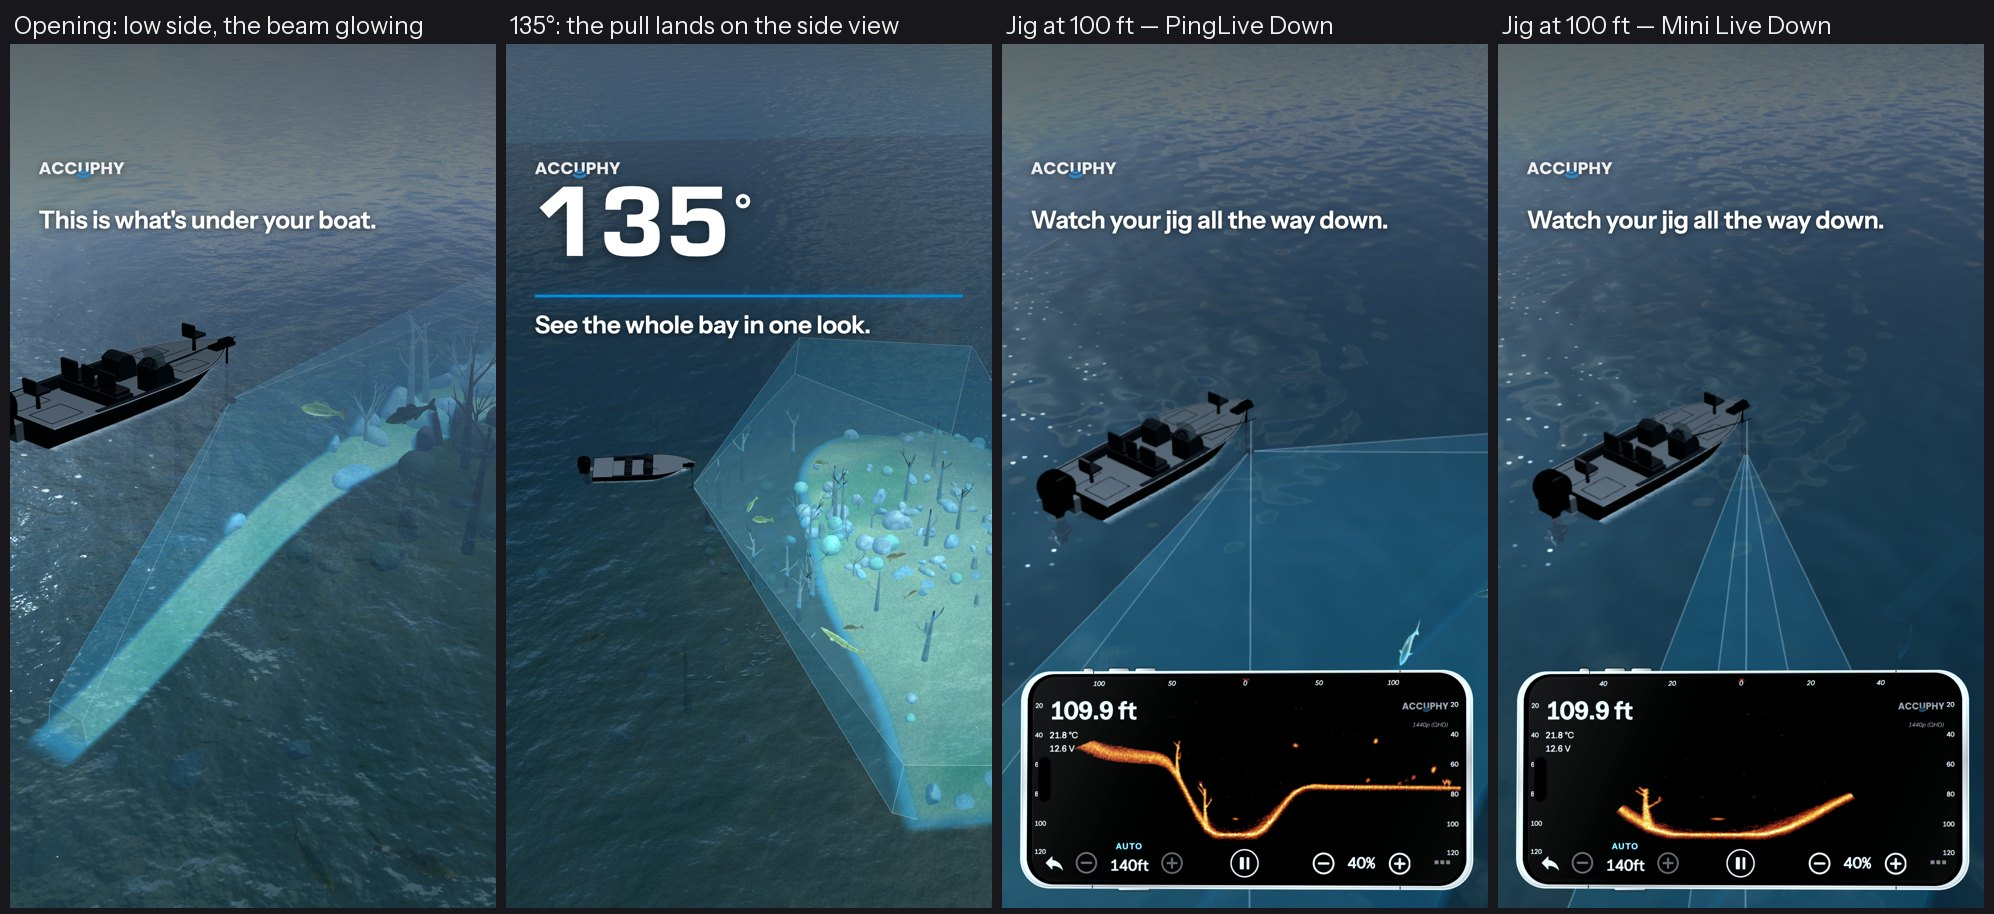
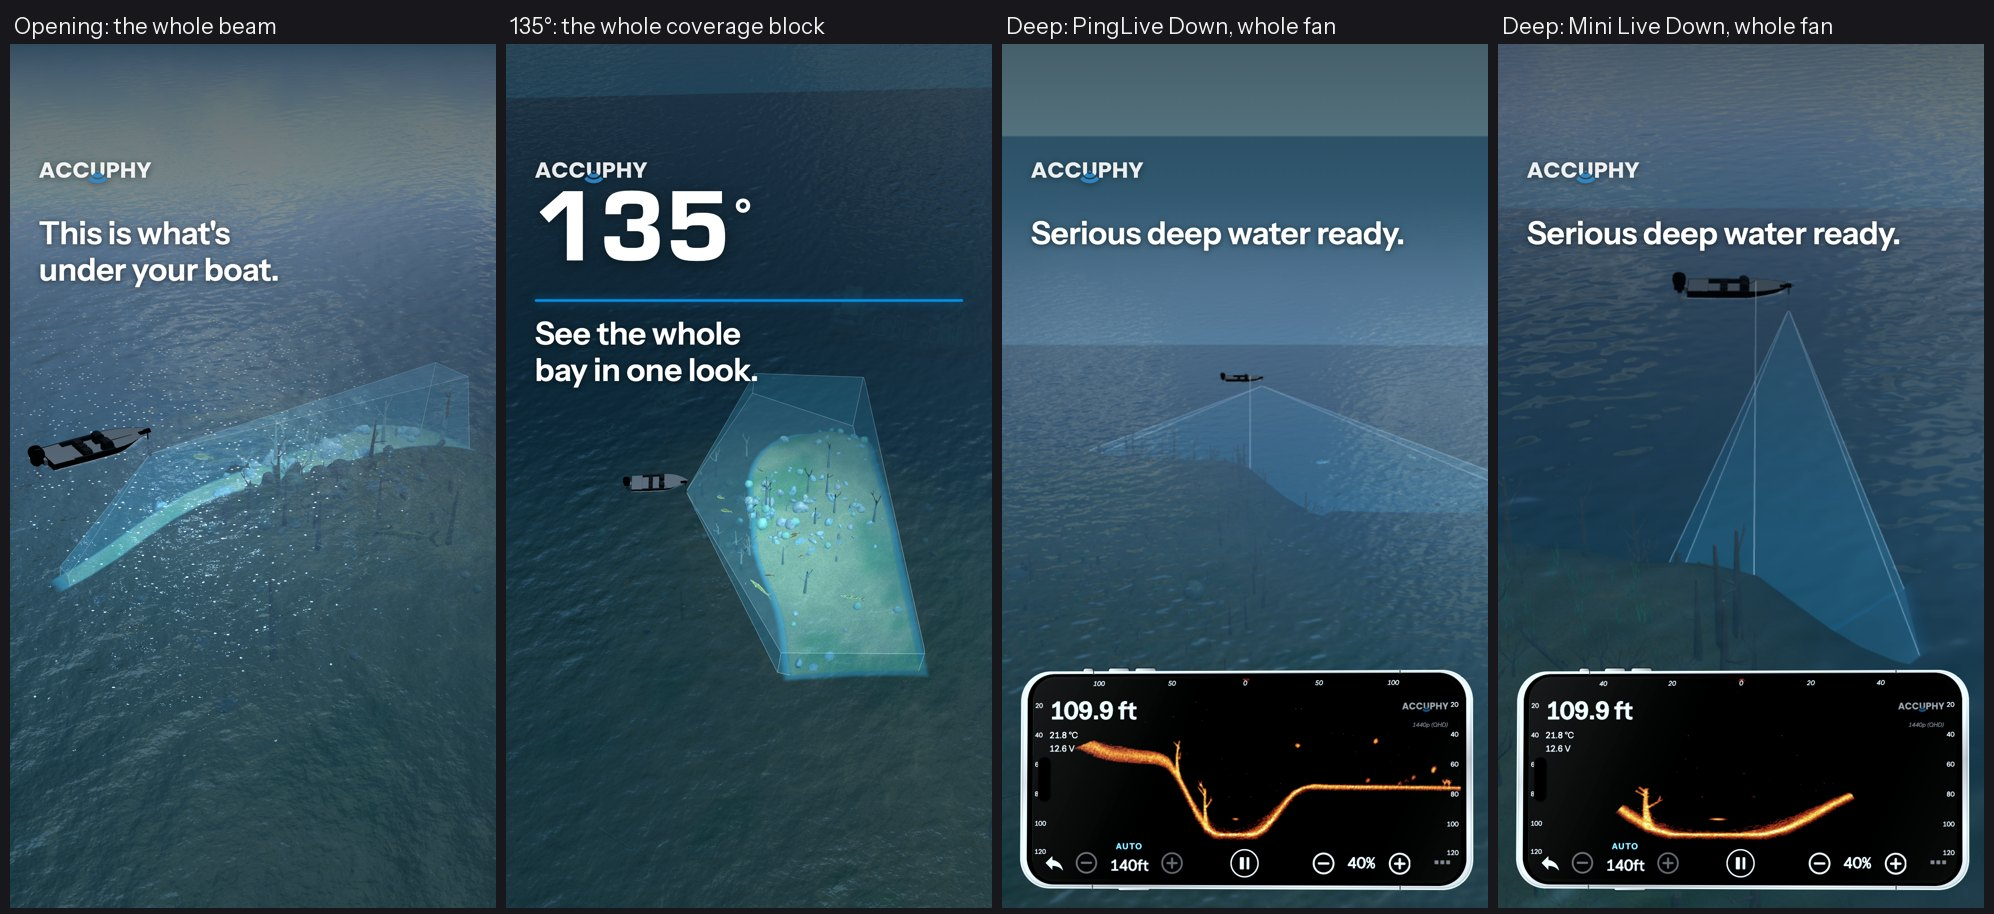
Ad v3 stills round 2 (Jason): cameras pulled back to the whole coverage, beams clear of the phone, bigger type, 'Serious deep water ready.'

diff --git a/scripts/dev/ads/v2/overlay2.html b/scripts/dev/ads/v2/overlay2.html
@@ -9,13 +9,13 @@
   #grad { position: absolute; left: 0; top: 0; width: 1080px; height: 1100px; opacity: 0;
     background: linear-gradient(180deg, rgba(2,8,14,.62) 0%, rgba(2,8,14,.38) 55%, rgba(2,8,14,0) 100%); }
   /* the small wordmark: top left, inside the 250 px top safe zone's edge, from the first frame */
-  #mark { position: absolute; left: 64px; top: 262px; width: 190px; opacity: .9; filter: drop-shadow(0 2px 8px rgba(0,0,0,.5)); }
+  #mark { position: absolute; left: 64px; top: 262px; width: 250px; opacity: .9; filter: drop-shadow(0 2px 8px rgba(0,0,0,.5)); }
   #block { position: absolute; left: 64px; width: 952px; color: #fff; }
   .num { font-family: 'Eurostile Heavy'; font-size: 230px; line-height: .9; letter-spacing: -.005em; white-space: nowrap; text-shadow: 0 4px 30px rgba(0,0,0,.45); }
   .num .unit { font-size: .46em; margin-left: .08em; vertical-align: .62em; letter-spacing: .02em; }
   .rule { margin-top: 20px; height: 6px; background: #028CDF; border-radius: 3px; box-shadow: 0 0 20px rgba(2,140,223,.6); }
-  .line { margin-top: 30px; font-family: 'Instrument Sans'; font-weight: 600; font-size: 54px; line-height: 1.18; letter-spacing: -.005em;
-    text-shadow: 0 2px 14px rgba(0,0,0,.55); max-width: 900px; }
+  .line { margin-top: 30px; font-family: 'Instrument Sans'; font-weight: 600; font-size: 70px; line-height: 1.15; letter-spacing: -.005em;
+    text-shadow: 0 2px 14px rgba(0,0,0,.55); max-width: 900px; text-wrap: balance; }
   .hidden { display: none }
 </style></head>
 <body>
